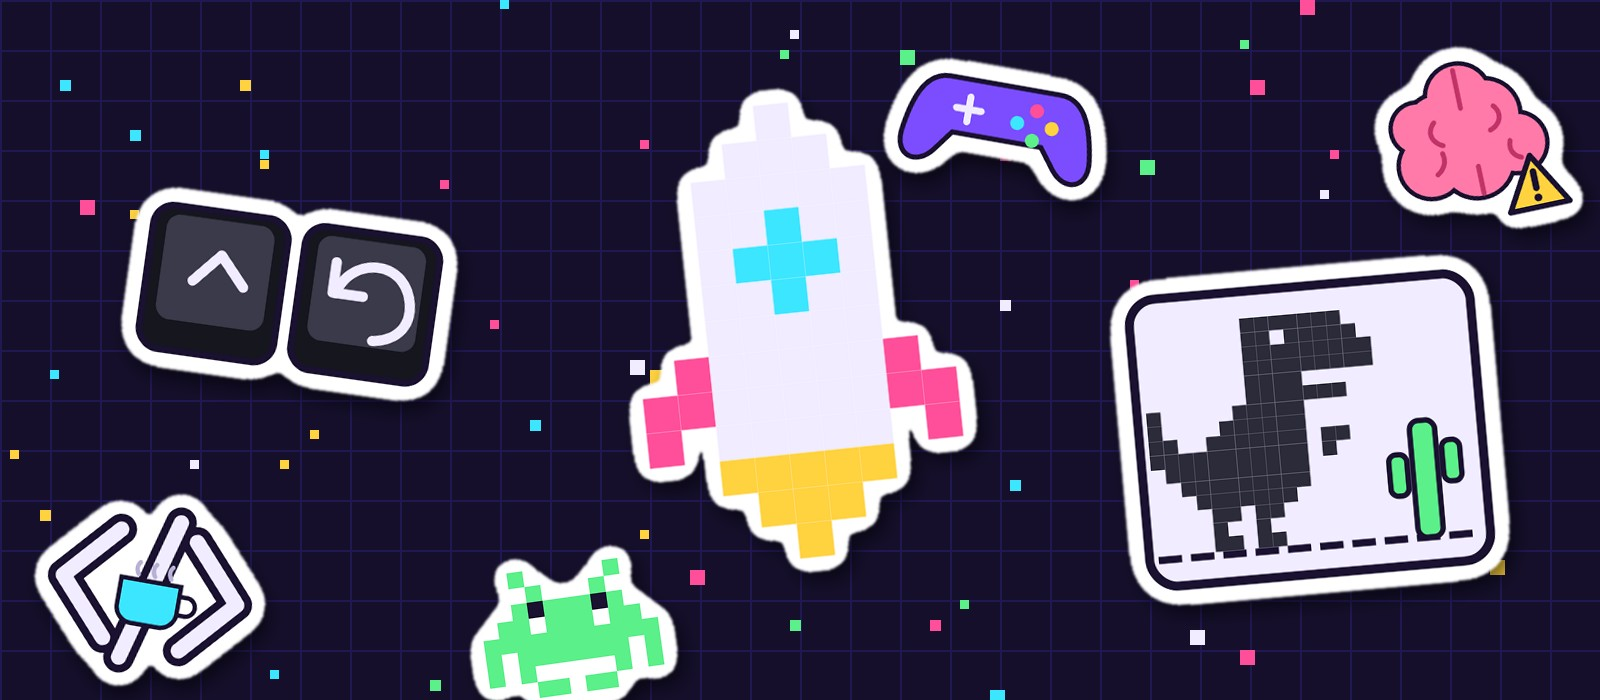
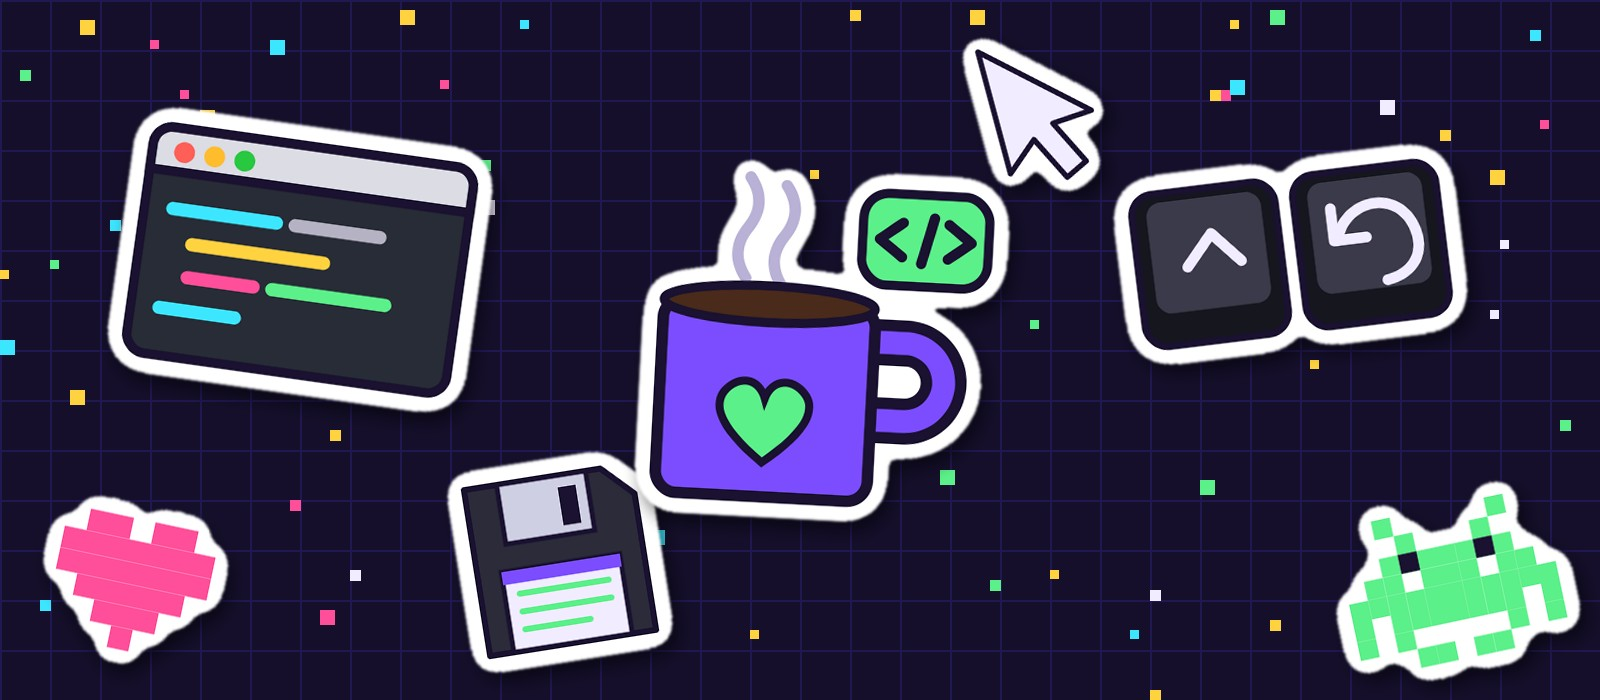
actualice el carrusel

diff --git a/src/data/carousel.ts b/src/data/carousel.ts
@@ -5,8 +5,8 @@ export interface Slide {
 
 // Pon tus imágenes en public/carousel/ y escribe aquí sus nombres reales
 export const slides: Slide[] = [
-  { src: "/carousel/1.jpg", alt: "Descripción de la imagen 1" },
+  { src: "/carousel/1.jpeg", alt: "Descripción de la imagen 1" },
   { src: "/carousel/2.jpg", alt: "Descripción de la imagen 2" },
-  { src: "/carousel/3.jpg", alt: "Descripción de la imagen 3" },
+  { src: "/carousel/3.jpeg", alt: "Descripción de la imagen 3" },
   { src: "/carousel/4.jpg", alt: "Descripción de la imagen 4" },
 ];
